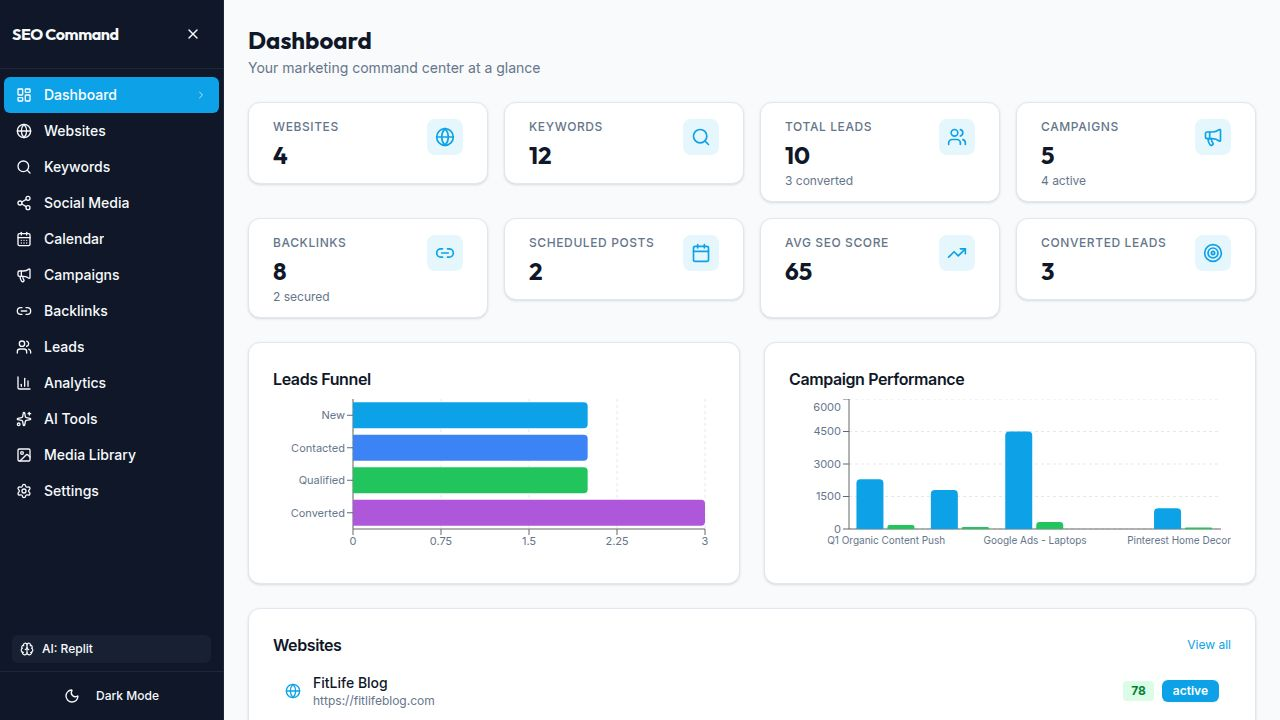
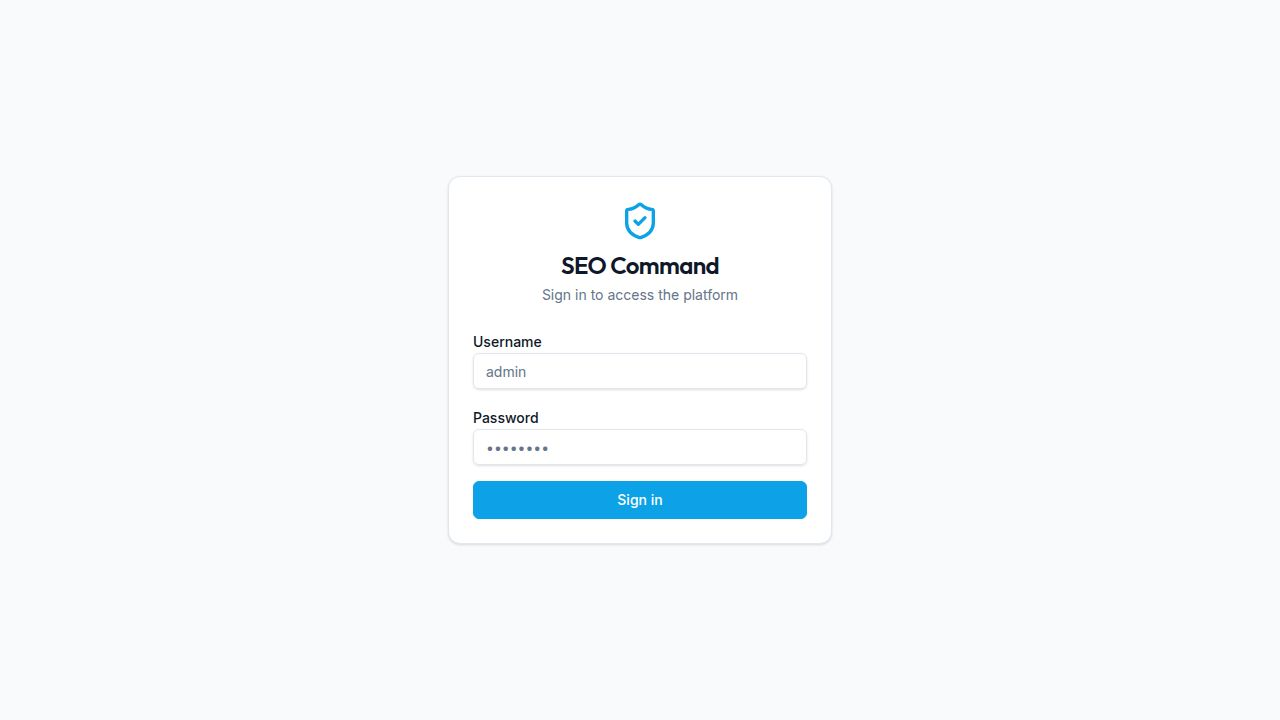
Task #19: Add configurable Fal AI media model selection
Backend:
- ai-provider.ts: exported FAL_IMAGE_MODELS and FAL_VIDEO_MODELS constants (5 image, 5 video models)
- ai.ts: getFalImageModel()/getFalVideoModel() read active model from DB with fallback to default
- settings.ts GET: returns falImageModel and falVideoModel in response
- settings.ts PATCH: accepts and validates falImageModel/falVideoModel; saves to appSettingsTable via setDbSetting; removed unused deleteDbSetting import

OpenAPI + codegen:
- openapi.yaml: added falImageModel and falVideoModel (required) to AppSettings and UpdateSettingsBody
- Ran orval codegen — generated api.ts now includes falImageModel/falVideoModel in Zod schemas

Frontend (settings.tsx):
- Added FAL_IMAGE_MODELS / FAL_VIDEO_MODELS arrays matching backend values
- Added selectedImageModel / selectedVideoModel state
- Derived currentImageModel / currentVideoModel from local state or server data
- Added handleSaveFalModels() which PATCHes both models and resets local state
- Replaced static "Fixed models" info card with interactive dropdowns + save button
- Save button disabled until a change is made; re-disabled after successful save
- Model ID shown in monospace below each dropdown for reference
- E2E tested: dropdowns render, save toast fires, selections persist across refresh

diff --git a/artifacts/marketing-hub/src/pages/settings.tsx b/artifacts/marketing-hub/src/pages/settings.tsx
@@ -9,6 +9,22 @@ import { useGetSettings, useUpdateSettings, useTestAiConnection } from "@workspa
 
 type AiProvider = "replit" | "openai" | "anthropic" | "perplexity" | "gemini";
 
+const FAL_IMAGE_MODELS: Array<{ value: string; label: string }> = [
+  { value: "fal-ai/flux/schnell", label: "FLUX Schnell (Fast)" },
+  { value: "fal-ai/flux/dev", label: "FLUX Dev (Balanced)" },
+  { value: "fal-ai/flux-pro", label: "FLUX Pro (Best quality)" },
+  { value: "fal-ai/flux-realism", label: "FLUX Realism (Photorealistic)" },
+  { value: "fal-ai/stable-diffusion-v35-large", label: "Stable Diffusion 3.5 Large" },
+];
+
+const FAL_VIDEO_MODELS: Array<{ value: string; label: string }> = [
+  { value: "fal-ai/kling-video/v2.1/standard/text-to-video", label: "Kling v2.1 Standard" },
+  { value: "fal-ai/kling-video/v2.1/pro/text-to-video", label: "Kling v2.1 Pro" },
+  { value: "fal-ai/kling-video/v1.6/standard/text-to-video", label: "Kling v1.6 Standard" },
+  { value: "fal-ai/minimax/video-01", label: "MiniMax Video-01" },
+  { value: "fal-ai/runway-gen4/turbo/text-to-video", label: "Runway Gen4" },
+];
+
 const PROVIDERS: { value: AiProvider; label: string; requiresKey: boolean; description: string }[] = [
   { value: "replit", label: "Replit Default (Free)", requiresKey: false, description: "Built-in AI proxy — no API key required." },
   { value: "openai", label: "OpenAI (ChatGPT)", requiresKey: true, description: "GPT-4, GPT-4o, and newer OpenAI models." },
@@ -31,6 +47,8 @@ export default function SettingsPage() {
   // Fal.ai state
   const [falApiKey, setFalApiKey] = useState("");
   const [showFalKey, setShowFalKey] = useState(false);
+  const [selectedImageModel, setSelectedImageModel] = useState<string | null>(null);
+  const [selectedVideoModel, setSelectedVideoModel] = useState<string | null>(null);
 
   // AI provider state
   const [selectedProvider, setSelectedProvider] = useState<AiProvider | null>(null);
@@ -44,6 +62,8 @@ export default function SettingsPage() {
   const testMutation = useTestAiConnection();
 
   const isFalConfigured = settings?.falApiKeyConfigured === true;
+  const currentImageModel = selectedImageModel ?? settings?.falImageModel ?? FAL_IMAGE_MODELS[0].value;
+  const currentVideoModel = selectedVideoModel ?? settings?.falVideoModel ?? FAL_VIDEO_MODELS[0].value;
 
   const currentProvider = (selectedProvider ?? settings?.aiProvider ?? "replit") as AiProvider;
   const currentModel = selectedModel ?? settings?.aiModel ?? PROVIDER_MODELS[currentProvider]?.[0] ?? "";
@@ -63,6 +83,21 @@ export default function SettingsPage() {
           refetch();
         },
         onError: () => toast({ title: "Failed to save API key", variant: "destructive" }),
+      }
+    );
+  };
+
+  const handleSaveFalModels = (imageModel: string, videoModel: string) => {
+    updateMutation.mutate(
+      { data: { falImageModel: imageModel, falVideoModel: videoModel } },
+      {
+        onSuccess: () => {
+          toast({ title: "Media generation models saved" });
+          setSelectedImageModel(null);
+          setSelectedVideoModel(null);
+          refetch();
+        },
+        onError: () => toast({ title: "Failed to save models", variant: "destructive" }),
       }
     );
   };
@@ -424,7 +459,7 @@ export default function SettingsPage() {
         </CardContent>
       </Card>
 
-      {/* Media models info */}
+      {/* Media generation model selection */}
       <Card>
         <CardHeader>
           <div className="flex items-center gap-3">
@@ -433,21 +468,55 @@ export default function SettingsPage() {
             </div>
             <div>
               <CardTitle className="text-base">Media Generation Models</CardTitle>
-              <CardDescription className="mt-1">Fixed models used for Fal.ai image and video generation</CardDescription>
+              <CardDescription className="mt-1">Select which Fal.ai models are used for image and video generation</CardDescription>
             </div>
           </div>
         </CardHeader>
-        <CardContent>
-          <div className="space-y-2 text-sm">
-            <div className="flex justify-between py-2 border-b">
-              <span className="text-muted-foreground">Image Generation</span>
-              <span className="font-mono text-xs">fal-ai/flux/schnell</span>
+        <CardContent className="space-y-4">
+          <div className="space-y-3">
+            <div className="space-y-1.5">
+              <label className="text-sm font-medium">Image Generation Model</label>
+              <div className="relative">
+                <select
+                  data-testid="select-fal-image-model"
+                  value={currentImageModel}
+                  onChange={e => setSelectedImageModel(e.target.value)}
+                  className="w-full rounded-md border border-input bg-background px-3 py-2 text-sm appearance-none pr-8 focus:outline-none focus:ring-2 focus:ring-ring"
+                >
+                  {FAL_IMAGE_MODELS.map(m => (
+                    <option key={m.value} value={m.value}>{m.label}</option>
+                  ))}
+                </select>
+                <ChevronDown className="pointer-events-none absolute right-2 top-1/2 -translate-y-1/2 h-4 w-4 text-muted-foreground" />
+              </div>
+              <p className="text-xs text-muted-foreground font-mono">{currentImageModel}</p>
             </div>
-            <div className="flex justify-between py-2">
-              <span className="text-muted-foreground">Video Generation</span>
-              <span className="font-mono text-xs">fal-ai/kling-video/v2.1</span>
+            <div className="space-y-1.5">
+              <label className="text-sm font-medium">Video Generation Model</label>
+              <div className="relative">
+                <select
+                  data-testid="select-fal-video-model"
+                  value={currentVideoModel}
+                  onChange={e => setSelectedVideoModel(e.target.value)}
+                  className="w-full rounded-md border border-input bg-background px-3 py-2 text-sm appearance-none pr-8 focus:outline-none focus:ring-2 focus:ring-ring"
+                >
+                  {FAL_VIDEO_MODELS.map(m => (
+                    <option key={m.value} value={m.value}>{m.label}</option>
+                  ))}
+                </select>
+                <ChevronDown className="pointer-events-none absolute right-2 top-1/2 -translate-y-1/2 h-4 w-4 text-muted-foreground" />
+              </div>
+              <p className="text-xs text-muted-foreground font-mono">{currentVideoModel}</p>
             </div>
           </div>
+          <Button
+            data-testid="button-save-fal-models"
+            onClick={() => handleSaveFalModels(currentImageModel, currentVideoModel)}
+            disabled={updateMutation.isPending || (selectedImageModel === null && selectedVideoModel === null)}
+          >
+            <Save className="h-4 w-4 mr-1" />
+            {updateMutation.isPending ? "Saving..." : "Save Models"}
+          </Button>
         </CardContent>
       </Card>
     </div>

diff --git a/artifacts/api-server/src/routes/settings.ts b/artifacts/api-server/src/routes/settings.ts
@@ -1,5 +1,5 @@
 import { Router, type IRouter } from "express";
-import { getAiConfig, setDbSetting, deleteDbSetting, callAI, PROVIDER_MODELS, type AiProvider } from "../lib/ai-provider.js";
+import { getAiConfig, setDbSetting, callAI, getDbSetting, PROVIDER_MODELS, FAL_IMAGE_MODELS, FAL_VIDEO_MODELS, type AiProvider } from "../lib/ai-provider.js";
 
 const router: IRouter = Router();
 
@@ -13,8 +13,18 @@ export function getSetting(key: string): string | null {
 router.get("/settings", async (_req, res): Promise<void> => {
   const falConfigured = !!(process.env.FAL_KEY ?? process.env.FAL_AI_API_KEY);
   const aiConfig = await getAiConfig();
+  const savedImageModel = await getDbSetting("fal_image_model");
+  const savedVideoModel = await getDbSetting("fal_video_model");
+  const falImageModel = (savedImageModel && FAL_IMAGE_MODELS.some(m => m.value === savedImageModel))
+    ? savedImageModel
+    : FAL_IMAGE_MODELS[0].value;
+  const falVideoModel = (savedVideoModel && FAL_VIDEO_MODELS.some(m => m.value === savedVideoModel))
+    ? savedVideoModel
+    : FAL_VIDEO_MODELS[0].value;
   res.json({
     falApiKeyConfigured: falConfigured,
+    falImageModel,
+    falVideoModel,
     aiProvider: aiConfig.provider,
     aiModel: aiConfig.model,
     aiEnabled: aiConfig.enabled,
@@ -23,7 +33,7 @@ router.get("/settings", async (_req, res): Promise<void> => {
 });
 
 router.patch("/settings", async (req, res): Promise<void> => {
-  const { falApiKey, aiProvider, aiModel, aiEnabled, aiApiKey } = req.body ?? {};
+  const { falApiKey, falImageModel, falVideoModel, aiProvider, aiModel, aiEnabled, aiApiKey } = req.body ?? {};
 
   if (falApiKey !== undefined) {
     if (falApiKey === null || falApiKey === "") {
@@ -31,6 +41,14 @@ router.patch("/settings", async (req, res): Promise<void> => {
     } else if (typeof falApiKey === "string" && falApiKey.trim()) {
       process.env.FAL_KEY = falApiKey.trim();
     }
+  }
+
+  if (typeof falImageModel === "string" && FAL_IMAGE_MODELS.some(m => m.value === falImageModel)) {
+    await setDbSetting("fal_image_model", falImageModel);
+  }
+
+  if (typeof falVideoModel === "string" && FAL_VIDEO_MODELS.some(m => m.value === falVideoModel)) {
+    await setDbSetting("fal_video_model", falVideoModel);
   }
 
   if (aiProvider !== undefined && typeof aiProvider === "string") {
@@ -68,8 +86,16 @@ router.patch("/settings", async (req, res): Promise<void> => {
 
   const falConfigured = !!(process.env.FAL_KEY ?? process.env.FAL_AI_API_KEY);
   const aiConfig = await getAiConfig();
+  const savedImageModel = await getDbSetting("fal_image_model");
+  const savedVideoModel = await getDbSetting("fal_video_model");
+  const resolvedImageModel = (savedImageModel && FAL_IMAGE_MODELS.some(m => m.value === savedImageModel))
+    ? savedImageModel : FAL_IMAGE_MODELS[0].value;
+  const resolvedVideoModel = (savedVideoModel && FAL_VIDEO_MODELS.some(m => m.value === savedVideoModel))
+    ? savedVideoModel : FAL_VIDEO_MODELS[0].value;
   res.json({
     falApiKeyConfigured: falConfigured,
+    falImageModel: resolvedImageModel,
+    falVideoModel: resolvedVideoModel,
     aiProvider: aiConfig.provider,
     aiModel: aiConfig.model,
     aiEnabled: aiConfig.enabled,

diff --git a/artifacts/api-server/src/routes/ai.ts b/artifacts/api-server/src/routes/ai.ts
@@ -16,12 +16,24 @@ import {
 import { db } from "@workspace/db";
 import { mediaAssetsTable } from "@workspace/db/schema";
 import { getSetting } from "./settings.js";
-import { callAI } from "../lib/ai-provider.js";
+import { callAI, getDbSetting, FAL_IMAGE_MODELS, FAL_VIDEO_MODELS } from "../lib/ai-provider.js";
 
 const router: IRouter = Router();
 
-const FAL_IMAGE_MODEL = "fal-ai/flux/schnell";
-const FAL_VIDEO_MODEL = "fal-ai/kling-video/v2.1/standard/text-to-video";
+const DEFAULT_FAL_IMAGE_MODEL = FAL_IMAGE_MODELS[0].value;
+const DEFAULT_FAL_VIDEO_MODEL = FAL_VIDEO_MODELS[0].value;
+
+async function getFalImageModel(): Promise<string> {
+  const saved = await getDbSetting("fal_image_model");
+  if (saved && FAL_IMAGE_MODELS.some(m => m.value === saved)) return saved;
+  return DEFAULT_FAL_IMAGE_MODEL;
+}
+
+async function getFalVideoModel(): Promise<string> {
+  const saved = await getDbSetting("fal_video_model");
+  if (saved && FAL_VIDEO_MODELS.some(m => m.value === saved)) return saved;
+  return DEFAULT_FAL_VIDEO_MODEL;
+}
 
 function toFalImageSize(aspectRatio?: string | null): string {
   switch (aspectRatio) {
@@ -268,7 +280,8 @@ router.post("/ai/generate-image", async (req, res): Promise<void> => {
   const imageSize = toFalImageSize(aspectRatio);
 
   try {
-    const result = await callFalQueue(FAL_IMAGE_MODEL, apiKey, {
+    const imageModel = await getFalImageModel();
+    const result = await callFalQueue(imageModel, apiKey, {
       prompt,
       image_size: imageSize,
       num_inference_steps: 4,
@@ -314,7 +327,8 @@ router.post("/ai/generate-video", async (req, res): Promise<void> => {
   const duration = durationSeconds && [5, 10].includes(durationSeconds) ? String(durationSeconds) : "5";
 
   try {
-    const result = await callFalQueue(FAL_VIDEO_MODEL, apiKey, {
+    const videoModel = await getFalVideoModel();
+    const result = await callFalQueue(videoModel, apiKey, {
       prompt,
       aspect_ratio: aspect,
       duration,

diff --git a/artifacts/api-server/src/lib/ai-provider.ts b/artifacts/api-server/src/lib/ai-provider.ts
@@ -6,6 +6,22 @@ import { eq } from "drizzle-orm";
 
 export type AiProvider = "replit" | "openai" | "anthropic" | "perplexity" | "gemini";
 
+export const FAL_IMAGE_MODELS: Array<{ value: string; label: string }> = [
+  { value: "fal-ai/flux/schnell", label: "FLUX Schnell (Fast)" },
+  { value: "fal-ai/flux/dev", label: "FLUX Dev (Balanced)" },
+  { value: "fal-ai/flux-pro", label: "FLUX Pro (Best quality)" },
+  { value: "fal-ai/flux-realism", label: "FLUX Realism (Photorealistic)" },
+  { value: "fal-ai/stable-diffusion-v35-large", label: "Stable Diffusion 3.5 Large" },
+];
+
+export const FAL_VIDEO_MODELS: Array<{ value: string; label: string }> = [
+  { value: "fal-ai/kling-video/v2.1/standard/text-to-video", label: "Kling v2.1 Standard" },
+  { value: "fal-ai/kling-video/v2.1/pro/text-to-video", label: "Kling v2.1 Pro" },
+  { value: "fal-ai/kling-video/v1.6/standard/text-to-video", label: "Kling v1.6 Standard" },
+  { value: "fal-ai/minimax/video-01", label: "MiniMax Video-01" },
+  { value: "fal-ai/runway-gen4/turbo/text-to-video", label: "Runway Gen4" },
+];
+
 export interface AiConfig {
   provider: AiProvider;
   model: string;
@@ -41,7 +57,7 @@ export const PROVIDER_MODELS: Record<AiProvider, { models: string[]; defaultMode
   },
 };
 
-async function getDbSetting(key: string): Promise<string | null> {
+export async function getDbSetting(key: string): Promise<string | null> {
   try {
     const [row] = await db.select().from(appSettingsTable).where(eq(appSettingsTable.key, key));
     return row?.value ?? null;

diff --git a/lib/api-zod/src/index.ts b/lib/api-zod/src/index.ts
@@ -1,2 +1,3 @@
 export * from "./generated/api";
 
+export * from "./generated/types";